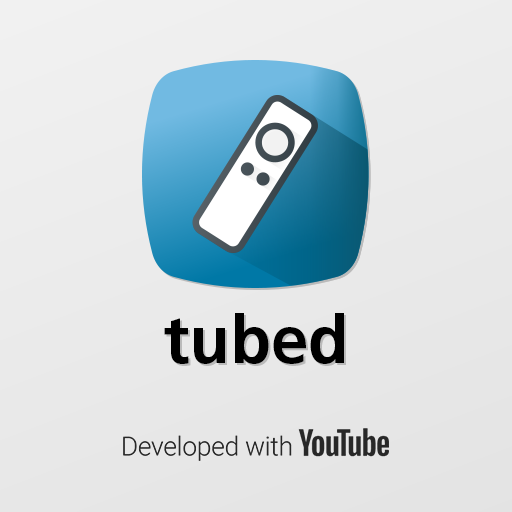
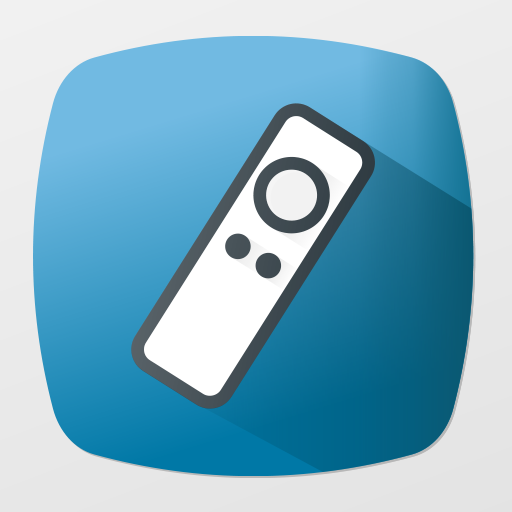
Branding requirement updates

diff --git a/resources/lib/src/dialogs/sign_in.py b/resources/lib/src/dialogs/sign_in.py
@@ -15,8 +15,8 @@ import xbmc  # pylint: disable=import-error
 
 from ..constants import CREDENTIALS
 from ..constants.demo import SIGN_IN_CODES
-from ..constants.media import GOOGLE_SIGN_IN
-from ..constants.media import LOGO_SMALL
+from ..constants.media import DEVELOPED_WITH_YOUTUBE
+from ..constants.media import GOOGLE_SIGN_IN_BUTTON
 from ..lib.txt_fmt import bold
 from .common import AddonFullWindow
 
@@ -35,11 +35,9 @@ class SignInDialog(AddonFullWindow):
 
         super().__init__(self.title)
 
-        self.header_label = None
         self.header_image = None
 
-        self.logo = None
-        self.name_label = None
+        self.developed_with_youtube = None
 
         self.device_code = ''
         self.user_code = ''
@@ -75,7 +73,7 @@ class SignInDialog(AddonFullWindow):
 
         xbmc.executebuiltin('Dialog.Close(all,true)')
 
-        self.setGeometry(680, 300, 30, 68)
+        self.setGeometry(690, 420, 42, 69)
 
         self.set_controls()
 
@@ -96,25 +94,8 @@ class SignInDialog(AddonFullWindow):
 
     def set_controls(self):
 
-        self.header_image = pyxbmct.Image(GOOGLE_SIGN_IN, aspectRatio=2)
-        self.placeControl(self.header_image, 1, 2, rowspan=7, columnspan=7)
-
-        self.header_label = pyxbmct.Label(
-            bold(self.context.i18n('Sign in with Google')),
-            font='font14',
-            alignment=0
-        )
-        self.placeControl(self.header_label, 2, 9, columnspan=46)
-
-        self.logo = pyxbmct.Image(LOGO_SMALL, aspectRatio=2)
-        self.placeControl(self.logo, 1, 64, rowspan=7, columnspan=7)
-
-        self.name_label = pyxbmct.Label(
-            bold(self.context.addon.getAddonInfo('name')),
-            font='font14',
-            alignment=1
-        )
-        self.placeControl(self.name_label, 2, 52, columnspan=12)
+        self.header_image = pyxbmct.Image(GOOGLE_SIGN_IN_BUTTON, aspectRatio=2)
+        self.placeControl(self.header_image, 2, 18, rowspan=9, columnspan=37)
 
         # create instructions here so verification_url is updated
         self.instructions = pyxbmct.Label(
@@ -123,7 +104,7 @@ class SignInDialog(AddonFullWindow):
             font='font14',
             alignment=2
         )
-        self.placeControl(self.instructions, 9, 2, columnspan=68)
+        self.placeControl(self.instructions, 14, 2, columnspan=69)
 
         # create instructions here so user_code is updated
         self.user_code_label = pyxbmct.Label(
@@ -131,7 +112,10 @@ class SignInDialog(AddonFullWindow):
             font='font_MainMenu',
             alignment=2
         )
-        self.placeControl(self.user_code_label, 16, 2, columnspan=68, rowspan=10)
+        self.placeControl(self.user_code_label, 21, 2, columnspan=69, rowspan=10)
+
+        self.developed_with_youtube = pyxbmct.Image(DEVELOPED_WITH_YOUTUBE, aspectRatio=2)
+        self.placeControl(self.developed_with_youtube, 28, 14, rowspan=16, columnspan=45)
 
         self.client_id = pyxbmct.Label(
             self.context.i18n('Client ID: %s') %
@@ -139,7 +123,7 @@ class SignInDialog(AddonFullWindow):
             font='font10',
             alignment=2
         )
-        self.placeControl(self.client_id, 26, 2, columnspan=68)
+        self.placeControl(self.client_id, 41, 2, columnspan=69)
 
     def set_navigation(self):
         pass

diff --git a/resources/lib/src/constants/media.py b/resources/lib/src/constants/media.py
@@ -12,5 +12,7 @@ import os
 
 from .config import MEDIA_PATH
 
+DEVELOPED_WITH_YOUTUBE = os.path.join(MEDIA_PATH, 'developed-with-youtube.png')
 LOGO_SMALL = os.path.join(MEDIA_PATH, 'logo_small.png')
 GOOGLE_SIGN_IN = os.path.join(MEDIA_PATH, 'google-sign-in.png')
+GOOGLE_SIGN_IN_BUTTON = os.path.join(MEDIA_PATH, 'google-sign-in-btn.png')
